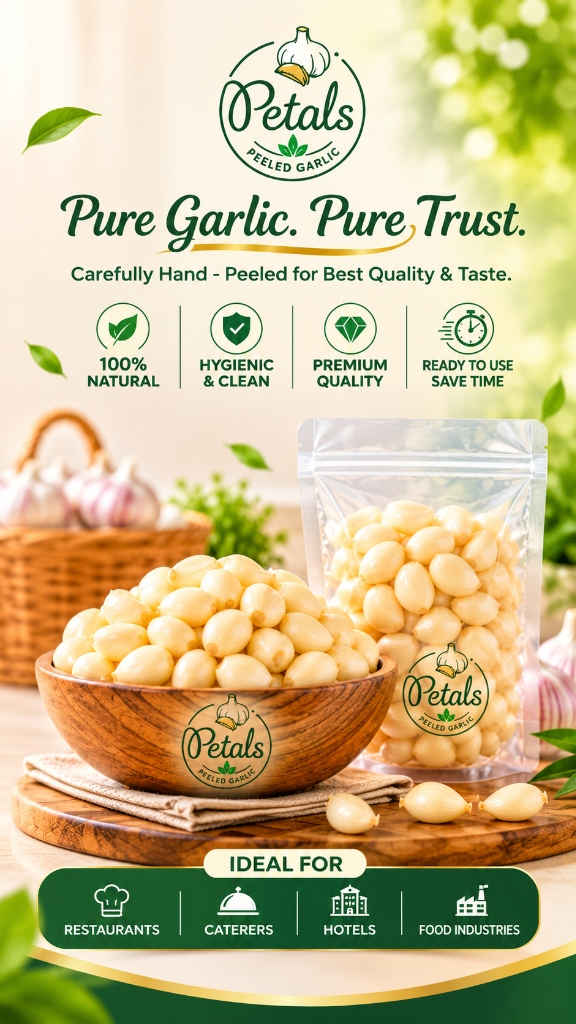
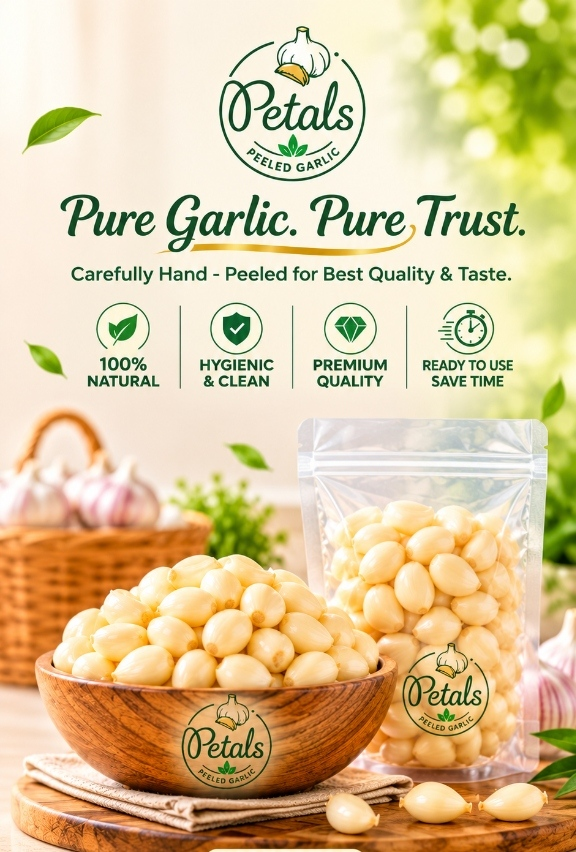
Crop out IDEAL FOR section from mobile view, remove floating WhatsApp button, fix address inputs and mobile modal layout

diff --git a/src/components/OrderModal.jsx b/src/components/OrderModal.jsx
@@ -223,7 +223,7 @@ export default function OrderModal({ orderData, onClose }) {
             )}
 
             {/* Address & Details Form */}
-            <form onSubmit={handleSubmit} className={styles.orderForm} noValidate>
+            <form onSubmit={handleSubmit} className={styles.orderForm} noValidate autoComplete="off">
               <div className={styles.formSectionTitle}>
                 <MapPin size={16} /> Delivery Address
                 <span className={styles.requiredNotice}>(* All fields required)</span>
@@ -238,6 +238,9 @@ export default function OrderModal({ orderData, onClose }) {
                     id="name"
                     type="text"
                     name="name"
+                    autoComplete="off"
+                    autoCorrect="off"
+                    autoCapitalize="words"
                     placeholder="e.g. Rahul / Spice Kitchen"
                     value={formData.name}
                     onChange={handleChange}
@@ -255,6 +258,8 @@ export default function OrderModal({ orderData, onClose }) {
                     id="phone"
                     type="tel"
                     name="phone"
+                    inputMode="tel"
+                    autoComplete="off"
                     placeholder="10-digit number (e.g. 9876543210)"
                     value={formData.phone}
                     onChange={handleChange}
@@ -273,6 +278,8 @@ export default function OrderModal({ orderData, onClose }) {
                   id="street"
                   type="text"
                   name="street"
+                  autoComplete="off"
+                  autoCorrect="off"
                   placeholder="Door No, Building Name, Street / Road"
                   value={formData.street}
                   onChange={handleChange}
@@ -289,6 +296,8 @@ export default function OrderModal({ orderData, onClose }) {
                     id="landmark"
                     type="text"
                     name="landmark"
+                    autoComplete="off"
+                    autoCorrect="off"
                     placeholder="Near Junction, Temple, etc."
                     value={formData.landmark}
                     onChange={handleChange}
@@ -303,6 +312,9 @@ export default function OrderModal({ orderData, onClose }) {
                     id="city"
                     type="text"
                     name="city"
+                    autoComplete="off"
+                    autoCorrect="off"
+                    autoCapitalize="words"
                     placeholder="e.g. Aluva, Thrissur town, etc."
                     value={formData.city}
                     onChange={handleChange}
@@ -341,6 +353,8 @@ export default function OrderModal({ orderData, onClose }) {
                     id="pincode"
                     type="text"
                     name="pincode"
+                    inputMode="numeric"
+                    autoComplete="off"
                     maxLength={6}
                     placeholder="6-digit PIN (e.g. 680001)"
                     value={formData.pincode}
@@ -358,6 +372,7 @@ export default function OrderModal({ orderData, onClose }) {
                   id="note"
                   name="note"
                   rows={2}
+                  autoComplete="off"
                   placeholder="e.g. Deliver before 11 AM, deliver to back kitchen door, etc."
                   value={formData.note}
                   onChange={handleChange}

diff --git a/src/components/Hero.jsx b/src/components/Hero.jsx
@@ -9,7 +9,23 @@ import {
 } from 'lucide-react';
 import styles from './Hero.module.css';
 
-export default function Hero() {
+export default function Hero({ onOpenOrder }) {
+  const handleMobileBuy = () => {
+    if (typeof onOpenOrder === 'function') {
+      onOpenOrder({
+        pack: {
+          id: 'garlic-1kg',
+          name: 'Petals Peeled Garlic',
+          size: '1 Kg',
+          price: 200
+        },
+        quantity: 1
+      });
+    } else if (typeof window !== 'undefined') {
+      window.location.hash = '#products';
+    }
+  };
+
   return (
     <section id="home" className={styles.heroSection}>
       {/* ========================================================
@@ -187,14 +203,15 @@ export default function Hero() {
 
       {/* ========================================================
           MOBILE VIEW BANNER (Tailored for vertical smartphone screens)
+          IDEAL FOR section cropped out as requested
           ======================================================== */}
       <div className={styles.mobileHeroWrapper}>
         <div className={styles.mobileBannerFrame}>
           <Image 
-            src="/images/mobile-banner.jpg" 
+            src="/images/mobile-banner-clean.jpg" 
             alt="Petals Peeled Garlic Mobile Banner" 
-            width={900} 
-            height={1600} 
+            width={576} 
+            height={852} 
             className={styles.mobileBannerImg}
             priority
           />

diff --git a/src/components/OrderModal.module.css b/src/components/OrderModal.module.css
@@ -21,7 +21,9 @@
   box-shadow: 0 24px 60px rgba(0, 0, 0, 0.25);
   animation: fadeIn 0.25s ease-out;
   max-height: 90vh;
+  max-height: 88dvh;
   overflow-y: auto;
+  -webkit-overflow-scrolling: touch;
 }
 
 .closeBtn {
@@ -366,12 +368,37 @@
 }
 
 @media (max-width: 576px) {
-  .modalBox {
-    padding: 1.5rem 1.2rem;
+  .modalOverlay {
+    padding: 0.75rem 0.6rem;
+    align-items: center;
   }
+
+  .modalBox {
+    padding: 1.4rem 1.15rem;
+    padding-bottom: calc(2.5rem + env(safe-area-inset-bottom, 20px));
+    max-height: 84vh;
+    max-height: 84dvh;
+    border-radius: 16px;
+  }
+
+  /* 16px font-size prevents iOS Safari from auto-focus zooming/jumping into inputs */
+  .formGroup input,
+  .formGroup select,
+  .formGroup textarea {
+    font-size: 16px;
+    padding: 0.7rem 0.85rem;
+  }
+
   .formRow {
     grid-template-columns: 1fr;
     gap: 0.85rem;
+  }
+
+  .submitBtn {
+    margin-top: 0.75rem;
+    margin-bottom: 1.5rem; /* Ensures the button is fully visible above Safari's bottom toolbar */
+    padding: 1rem;
+    font-size: 0.98rem;
   }
 }
 

diff --git a/src/pages/index.jsx b/src/pages/index.jsx
@@ -5,7 +5,6 @@ import Hero from '@/components/Hero';
 import OurStory from '@/components/OurStory';
 import Products from '@/components/Products';
 import Footer from '@/components/Footer';
-import FloatingWhatsApp from '@/components/FloatingWhatsApp';
 import OrderModal from '@/components/OrderModal';
 import BulkQuoteModal from '@/components/BulkQuoteModal';
 
@@ -75,8 +74,6 @@ export default function Home() {
         </main>
 
         <Footer onOpenOrder={handleOpenOrder} />
-
-        <FloatingWhatsApp onOpenOrder={handleOpenOrder} />
 
         {/* Address Form Modal -> Sends to WhatsApp */}
         {orderModalOpen && (

diff --git a/src/components/Header.module.css b/src/components/Header.module.css
@@ -154,3 +154,14 @@
     display: block;
   }
 }
+
+@media (max-width: 768px) {
+  /* Remove brand logo from navbar in mobile view as requested */
+  .brandLogo {
+    display: none !important;
+  }
+  .navContainer {
+    justify-content: flex-end;
+  }
+}
+

diff --git a/src/components/Hero.module.css b/src/components/Hero.module.css
@@ -316,6 +316,7 @@
 .mobileBannerFrame {
   width: 100%;
   line-height: 0;
+  overflow: hidden;
 }
 
 .mobileBannerImg {
